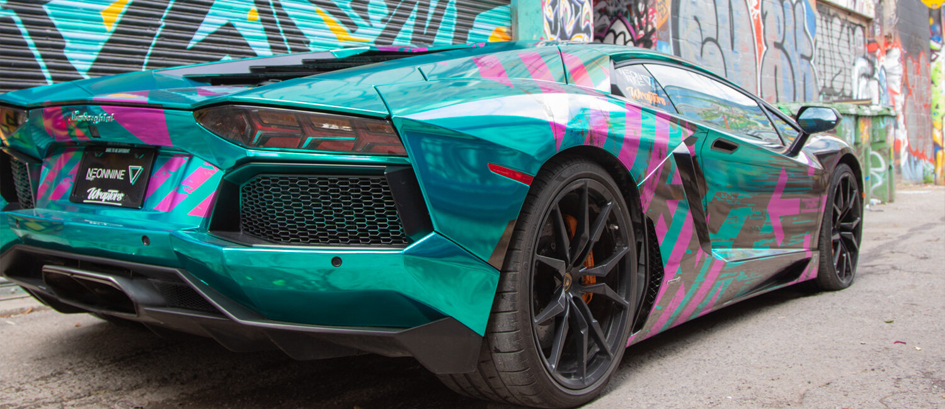
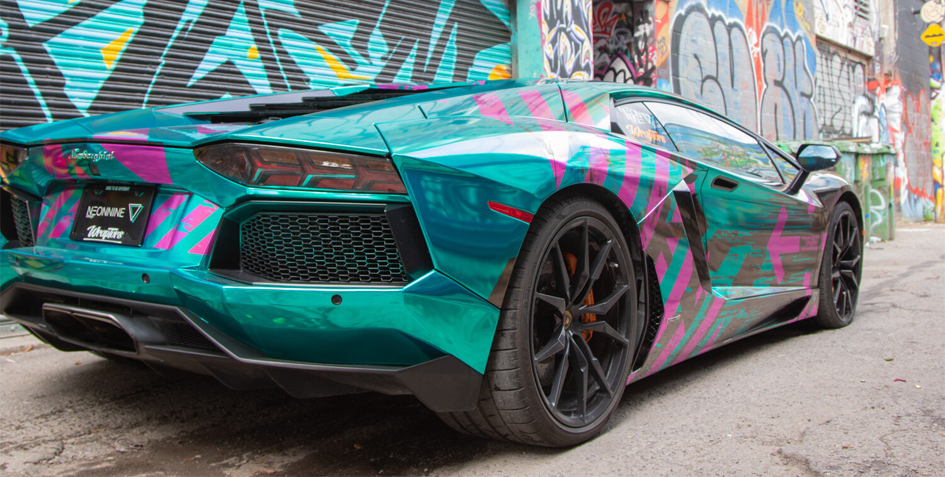
уцуц

diff --git a/car.js b/car.js
@@ -114,7 +114,7 @@ function onCar() {
 
 function onCar2() {
   // refs.img.src = 'images/car-2.png';
-  refs.img.src = 'images/a/999-18.jpg';
+  refs.img.src = 'images/a/999-3.jpg';
   refs.bmv1.src = 'images/green-1.png';
   refs.bmv2.src = 'images/green-2.png';
   // onBackroundColor(onActiveBackgroundColor2);
@@ -122,7 +122,7 @@ function onCar2() {
 }
 function onCar3() {
   // refs.img.src = 'images/car-3.png';
-  refs.img.src = 'images/a/999-21.jpg';
+  refs.img.src = 'images/a/999-0.jpg';
   refs.bmv1.src = 'images/yellow-1.png';
   refs.bmv2.src = 'images/yellow-2.png';
 
@@ -133,7 +133,7 @@ function onCar3() {
 
 function onCar4() {
   // refs.img.src = 'images/car-4.png';
-  refs.img.src = 'images/a/999-17.jpg';
+  refs.img.src = 'images/a/999-4.jpg';
   refs.bmv1.src = 'images/blue-1.png';
   refs.bmv2.src = 'images/blue-2.png';
   // onBackroundColor(onActiveBackgroundColor4);
@@ -141,7 +141,7 @@ function onCar4() {
 
 function onCar5() {
   // refs.img.src = 'images/car-5.png';
-  refs.img.src = 'images/a/999-6.jpg';
+  refs.img.src = 'images/a/999-5.jpg';
   refs.bmv1.src = 'images/green-1.png';
   refs.bmv2.src = 'images/green-2.png';
   // onBackroundColor(onActiveBackgroundColor5);
@@ -149,7 +149,7 @@ function onCar5() {
 
 function onCar6() {
   // refs.img.src = 'images/car-6.png';
-  refs.img.src = 'images/a/999-15.jpg';
+  refs.img.src = 'images/a/999-11.jpg';
 
   refs.bmv1.src = 'images/violet1.png';
   refs.bmv2.src = 'images/violet-2.png';
@@ -158,7 +158,7 @@ function onCar6() {
 
 function onCar7() {
   // refs.img.src = 'images/car-7.png';
-  refs.img.src = 'images/a/999-4.jpg';
+  refs.img.src = 'images/a/999-10.jpg';
   refs.bmv1.src = 'images/red-01.png';
   refs.bmv2.src = 'images/red-02.png';
   // onBackroundColor(onActiveBackgroundColor6);

diff --git a/index.html b/index.html
@@ -109,11 +109,6 @@
                 <div class="qqq">
                   <div class="flex-t">
                   <h1>We will create an individual style for your car <a href="#contact" class="mo">more details...</a></h1>
-                  <!-- <a href="#contact">
-                    <img class="te" width="35" src="./images/wwwa.png" alt="www">
-                  </a>
-                   -->
-                  <!-- <button class="ttt btn">Order</button> -->
                 </div>
                 <img
                   width="1280"
